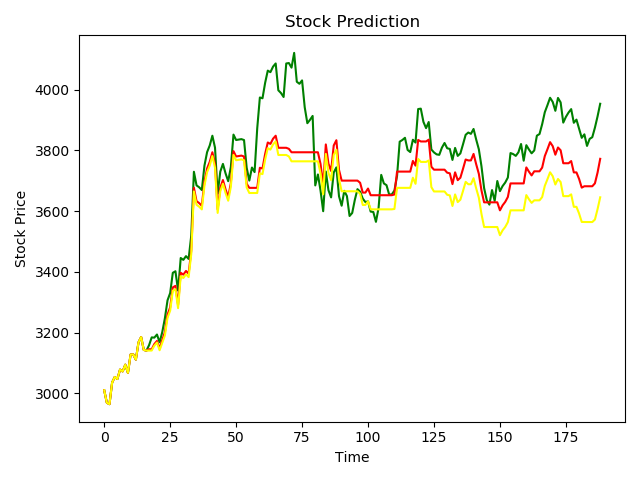
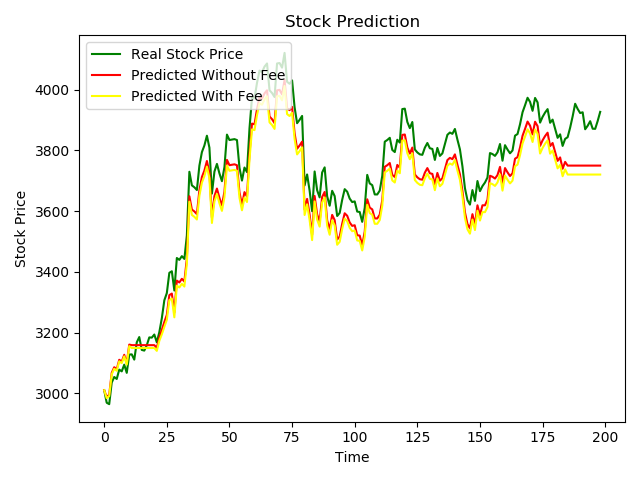
modify model, still bad prediction

diff --git a/window_predict.py b/window_predict.py
@@ -99,7 +99,7 @@ def window_predict(stock, window_len, time_steps, flat_num, close, change, mean,
         model = MLModel(input_shape=(x_train.shape[1], x_train.shape[2]), stock_name=stock)
 
         # 训练模型
-        model.train_model(x_train=x_train, y_train=y_train, epoch=5, batch_size=4, verbose=0)  # verbose=0不显示训练过程
+        model.train_model(x_train=x_train, y_train=y_train, epoch=10, batch_size=4, verbose=0)  # verbose=0不显示训练过程
 
         # 预测结果
         y_predict = model.predict(x_test)
@@ -110,8 +110,12 @@ def window_predict(stock, window_len, time_steps, flat_num, close, change, mean,
 
         if change[i + window_len] >= 0:
             actual_up_num_2 += 1
+            if (predict_state > 0 and (not buyed)) or (predict_state >= 0 and buyed) :
+                predict_up_num_2 += 1
         else:
             actual_down_num_2 += 1
+            if (predict_state < 0 and buyed) or (predict_state <= 0 and not buyed):
+                predict_down_num_2 += 1
 
         if actual_state > 0:
             actual_up_num += 1
@@ -128,7 +132,6 @@ def window_predict(stock, window_len, time_steps, flat_num, close, change, mean,
 
         if predict_state > 0 and (not buyed):  # 预测结果涨 且 没有持有股票， 买入，手续费0.00032
             buyed = 1
-            predict_up_num_2 += 1
             buy_num += 1
             rate_temp = (mean[i + window_len] - close[i + window_len - 1]) / close[
                 i + window_len - 1]  # 基于第二天股票均价相对于第一天收盘价的涨跌幅
@@ -138,7 +141,6 @@ def window_predict(stock, window_len, time_steps, flat_num, close, change, mean,
             base_money_fee = base_money_fee * (1 + rate_temp) * (1 - 0.00032)
         elif predict_state < 0 and buyed:  # 预测结果为跌 且 持有股票，抛出，手续费0.00132
             buyed = 0
-            predict_down_num_2 += 1
             sell_num += 1
             rate_temp = (mean[i + window_len] - close[i + window_len - 1]) / close[
                 i + window_len - 1]  # 基于第二天股票均价相对于第一天收盘价的涨跌幅
@@ -147,14 +149,12 @@ def window_predict(stock, window_len, time_steps, flat_num, close, change, mean,
             base_fee = base_fee * (1 + rate_temp) * (1 - 0.00132)
             base_money_fee = base_money_fee * (1 + rate_temp) * (1 - 0.00132)
         elif predict_state >= 0 and buyed:  # 预测结果为涨 且 持有股票，不进行操作
-            predict_up_num_2 += 1
             hold_num += 1
             base = base * (1 + change[i + window_len] / 100)
             base_money = base_money * (1 + change[i + window_len] / 100)
             base_fee = base_fee * (1 + change[i + window_len] / 100)
             base_money_fee = base_money_fee * (1 + change[i + window_len] / 100)
         else:  # 预测结果为跌 且 没有持有股票，不进行操作
-            predict_down_num_2 += 1
             empty_num += 1
 
         model_line.append(base_money)
@@ -189,7 +189,7 @@ def window_predict(stock, window_len, time_steps, flat_num, close, change, mean,
     logging.info(stock + "收益率: " + str(base - 1) + " , 收益率(含交易费): " + str(base_fee - 1))
 
     program_end_time = time.time()
-    logging.info('程序总用时:' + str(program_end_time - program_start_time) + '秒')
+    logging.info('程序总用时:' + str((program_end_time - program_start_time) / 60) + '分钟')
 
     # 绘制曲线图
     fig = plt.figure()
@@ -361,9 +361,9 @@ if __name__ == '__main__':
     pro = ts.pro_api()
 
     # 参数
-    stock = '000905.SH'  # 399300.SZ   000905.SH
+    stock = '399300.SZ'  # 399300.SZ   000905.SH
     window_len = 20  # 窗口的长度
-    time_steps = 5  # 每次训练的数据长度
+    time_steps = 3  # 每次训练的数据长度
     flat_num = 0.4  # (-flat_num, flat_num) 平
 
     quotes = pro.index_daily(ts_code=stock, start_date='20190301').sort_values(by=['trade_date'], ascending=True)
@@ -379,13 +379,13 @@ if __name__ == '__main__':
 
     # 数据ema5 ema10 穿越 macd rsi (diff   kdj  布林线
     # 金融数据指标
-    ema_num = 10
+    ema_num = 5
     boll_num = 20
     ema = ta.EMA(quotes['close'], ema_num).values
     H_line, M_line, L_line = ta.BBANDS(quotes['close'], timeperiod=boll_num, nbdevup=2, nbdevdn=2, matype=0)
 
     data_list = [ema[boll_num - 1:], H_line[boll_num - 1:], M_line[boll_num - 1:], L_line[boll_num - 1:],
-                 turnover_vol_total[boll_num - 1:]]
+                 close_total[boll_num - 1:], turnover_vol_total[boll_num - 1:]]
     data_unscaled = np.column_stack(data_list)
     data_scaled = scale(X=data_unscaled, axis=0)  # 归一化
 

diff --git a/stock_predict.py b/stock_predict.py
@@ -124,53 +124,46 @@ def generate_x_and_y(time_steps, change, *xs):
     return x, y
 
 
-# def generate_x_and_y_3(time_steps, change, *xs):
-#     # ( ,-big_num)大跌， (-big_num,-small_num)小跌， (-small_num,small_num)平， (small_num,big_num)小涨， (big_num, )大涨
-#     big_num = 0.3
-#
-#     data_num = 0  # 参数的个数
-#
-#     if len(xs) < 1:
-#         print('error: 没有传入参数XS！！！')
-#         return
-#     x_len = len(change)
-#     x_list = []
-#     for x_temp in xs:
-#         if len(x_temp) != x_len:
-#             print('error: XS参数长度不相等！！！')
-#             return
-#         x_list.append(x_temp)
-#         data_num += 1
-#
-#     x_unscaled = np.column_stack(x_list)  # 训练集
-#     # scaler = MinMaxScaler(feature_range=(0, 1))
-#     # """
-#     # fit_transform()对部分数据先拟合fit，
-#     # 找到该part的整体指标，如均值、方差、最大值最小值等等（根据具体转换的目的），
-#     # 然后对该trainData进行转换transform，从而实现数据的标准化、归一化等等。
-#     # """
-#     # x_scaled = scaler.fit_transform(X=x_unscaled)
-#     x_scaled = scale(X=x_unscaled, axis=0)  # 归一化
-#
-#     x = []
-#     y = []
-#     # 每240个数据为一组，作为测试数据，下一个数据为标签
-#     for i in range(time_steps, x_scaled.shape[0]):
-#         x.append(x_scaled[i - time_steps: i])
-#         y_change = change[i]
-#         if y_change < -big_num:
-#             y.append(0)
-#         elif -big_num <= y_change <= big_num:
-#             y.append(1)
-#         elif y_change > big_num:
-#             y.append(2)
-#     # 将数据转化为数组
-#     x, y = np.array(x), np.array(y)
-#     # 因为LSTM要求输入的数据格式为三维的，[training_number, time_steps, data_num]，因此对数据进行相应转化
-#     x = np.reshape(x, (x.shape[0], x.shape[1], data_num))
-#     y = np_utils.to_categorical(y, num_classes=3)
-#
-#     return x, y
+def generate_x_and_y_3(time_steps, change, *xs):
+    # ( ,-big_num)大跌， (-big_num,-small_num)小跌， (-small_num,small_num)平， (small_num,big_num)小涨， (big_num, )大涨
+    big_num = 0.38
+
+    data_num = 0  # 参数的个数
+
+    if len(xs) < 1:
+        print('error: 没有传入参数XS！！！')
+        return
+    x_len = len(change)
+    x_list = []
+    for x_temp in xs:
+        if len(x_temp) != x_len:
+            print('error: XS参数长度不相等！！！')
+            return
+        x_list.append(x_temp)
+        data_num += 1
+
+    x_unscaled = np.column_stack(x_list)  # 训练集
+    x_scaled = scale(X=x_unscaled, axis=0)  # 归一化
+
+    x = []
+    y = []
+    # 每time_steps个数据为一组，作为测试数据，下一个数据为标签
+    for i in range(time_steps, x_scaled.shape[0]):
+        x.append(x_scaled[i - time_steps: i])
+        y_change = change[i]
+        if y_change < -big_num:
+            y.append(0)
+        elif -big_num <= y_change <= big_num:
+            y.append(1)
+        elif y_change > big_num:
+            y.append(2)
+    # 将数据转化为数组
+    x, y = np.array(x), np.array(y)
+    # 因为LSTM要求输入的数据格式为三维的，[training_number, time_steps, data_num]，因此对数据进行相应转化
+    x = np.reshape(x, (x.shape[0], x.shape[1], data_num))
+    y = np_utils.to_categorical(y, num_classes=3)
+
+    return x, y
 
 
 def stock_operation(stock_name, change, close, mean, predict_state):
@@ -218,7 +211,7 @@ def stock_operation(stock_name, change, close, mean, predict_state):
         elif predict_state[i] == 0 and -1 <= change[i] <= 1:
             medium_num += 1
 
-        if predict_state[i] >= 0 and (not buyed):  # 预测结果涨 且 没有持有股票， 买入，手续费0.00032
+        if predict_state[i] > 0 and (not buyed):  # 预测结果涨 且 没有持有股票， 买入，手续费0.00032
             buyed = 1
             buy_num += 1
             rate_temp = (mean[i] - close[i]) / close[i]  # 基于第二天股票均价相对于第一天收盘价的涨跌幅

diff --git a/index_predict.py b/index_predict.py
@@ -1,13 +1,14 @@
 import numpy as np
 import tushare as ts
-import codecs
+import talib as ta
 import time
 from ml_model import MLModel
 import stock_predict
 
 # 导入金融数据
-with codecs.open('token.txt', 'rb', 'utf-8') as f:
-    token = f.read()
+f = open("token.txt", "r")
+token = f.read()
+f.close()
 ts.set_token(token)
 pro = ts.pro_api()
 
@@ -28,9 +29,6 @@ train_quotes = quotes[quotes['trade_date'] < divide_date].sort_values(by=['trade
 
 time_steps = 5  # 每次训练的数据长度
 
-total_days = len(quotes)
-train_days = len(train_quotes)
-
 # 数据
 close_total = np.array(quotes['close'])
 open_total = np.array(quotes['open'])
@@ -41,24 +39,35 @@ turnover_vol_total = np.array(quotes['vol'])
 turnover_value_total = np.array(quotes['amount'])
 mean_total = (np.array(quotes['high']) + np.array(quotes['low'])) / 2
 
-x_total, y_total = stock_predict.generate_x_and_y(time_steps, change_total,
-                                                  change_total, open_total, close_total, high_total, low_total, turnover_value_total)
+# 数据ema5 ema10 穿越 macd rsi (diff   kdj  布林线
+# 金融数据指标
+ema_num = 10
+boll_num = 20
+ema = ta.EMA(quotes['close'], ema_num).values
+H_line, M_line, L_line = ta.BBANDS(quotes['close'], timeperiod=boll_num, nbdevup=2, nbdevdn=2, matype=0)
+
+x_total, y_total = stock_predict.generate_x_and_y_3(time_steps, change_total[boll_num - 1:],
+                                                    ema[boll_num - 1:], H_line[boll_num - 1:], M_line[boll_num - 1:], L_line[boll_num - 1:], turnover_vol_total[boll_num - 1:])
+
+total_days = len(quotes) - boll_num
+train_days = len(train_quotes) - boll_num
+
 
 x_train = x_total[0:train_days - time_steps]
 y_train = y_total[0:train_days - time_steps]
 x_test = x_total[train_days - time_steps:]
 y_test = y_total[train_days - time_steps:]
-y_test = np.argmax(y_test, axis=1) - 2
+y_test = np.argmax(y_test, axis=1) - 1
 
 # 构建模型
 model = MLModel(input_shape=(x_train.shape[1], x_train.shape[2]), stock_name=stock)
 
 # 训练模型
-model.train_model(x_train=x_train, y_train=y_train, epoch=5, batch_size=32)
+model.train_model(x_train=x_train, y_train=y_train, epoch=10, batch_size=32)
 
 # 预测结果
 y_predict = model.predict(x_test)
-y_predict = np.argmax(y_predict, axis=1) - 2
+y_predict = np.argmax(y_predict, axis=1) - 1
 print("y_predict: ", y_predict)
 
 correct_num = 0
@@ -73,9 +82,9 @@ print(stock, "准确的大涨、大跌、震荡、小跌、大跌的预测准确
 print(stock, "涨跌平的预测准确率：", rough_correct_num / y_test.shape[0])
 
 stock_predict.stock_operation(stock_name=stock,
-                              change=change_total[train_days:],
-                              close=close_total[train_days - 1:],
-                              mean=mean_total[train_days:],
+                              change=change_total[train_days + boll_num:],
+                              close=close_total[train_days + boll_num - 1:],
+                              mean=mean_total[train_days + boll_num:],
                               predict_state=y_predict)
 
 print("结束 :", stock, ", =====================================时间 :", time.ctime())

diff --git a/ml_model.py b/ml_model.py
@@ -1,5 +1,6 @@
 from keras.models import Sequential
-from keras.layers import Dense, LSTM, BatchNormalization, Activation, Dropout
+from keras.layers import Dense, LSTM, Activation, Dropout, Convolution2D, MaxPooling2D, Flatten
+from keras.optimizers import Adam
 
 
 class MLModel:
@@ -20,7 +21,8 @@ class MLModel:
         model.add(Dense(units=3))
         model.add(Activation('softmax'))
         # add optimizer and loss function
-        model.compile(optimizer='adam',loss='mean_squared_error', metrics=['accuracy'])
+        adam = Adam(lr=1e-3)
+        model.compile(optimizer=adam, loss='categorical_crossentropy', metrics=['accuracy'])
         # model.summary()
         return model
 
